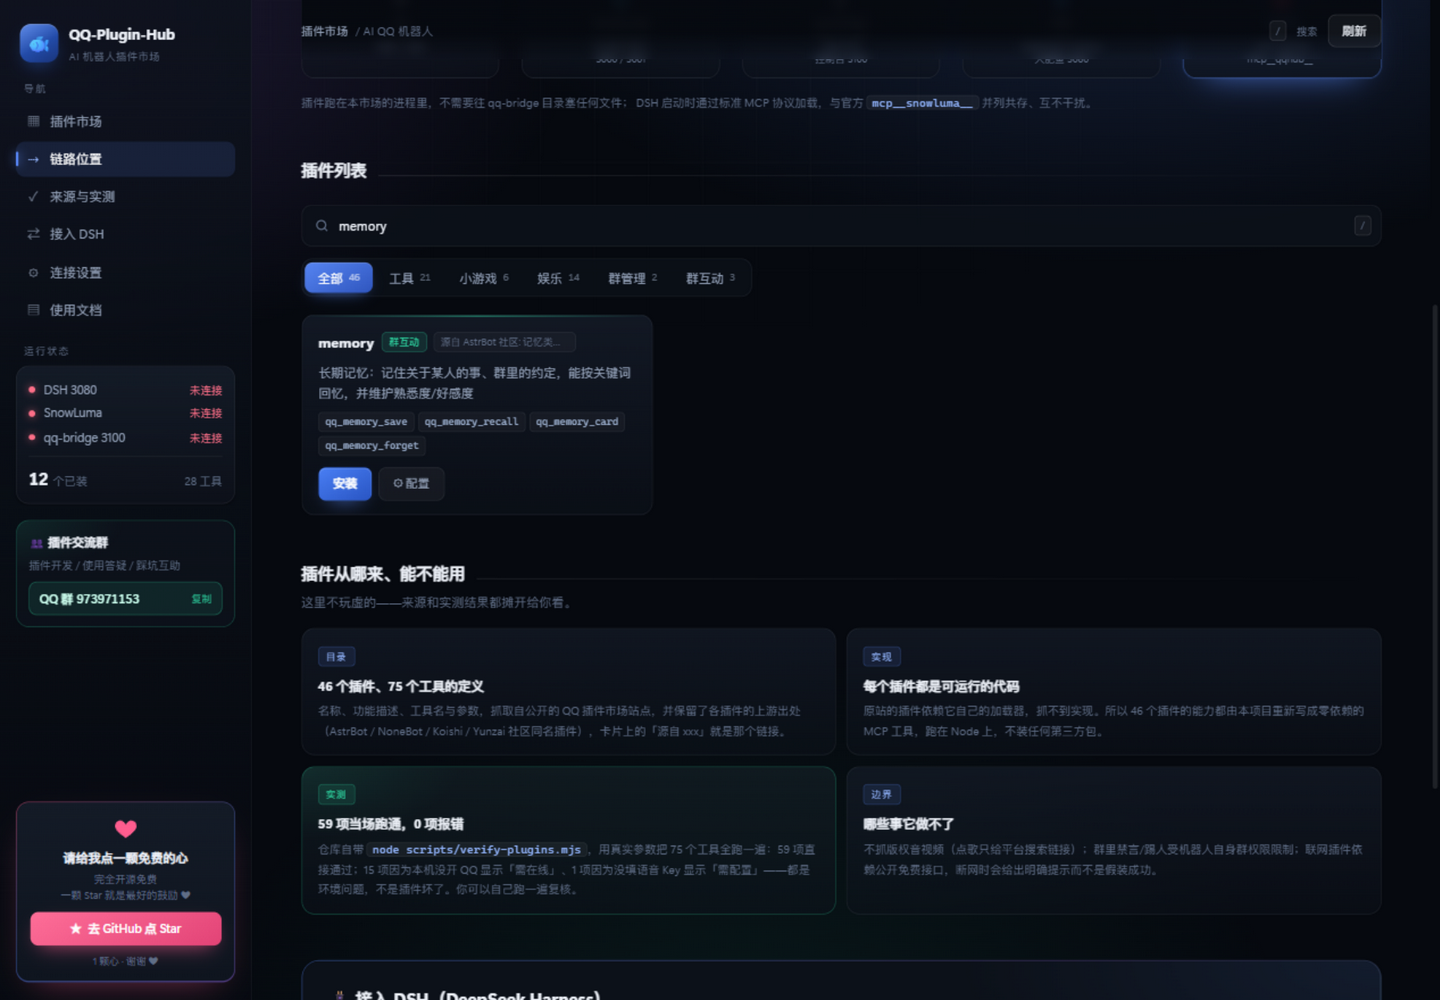
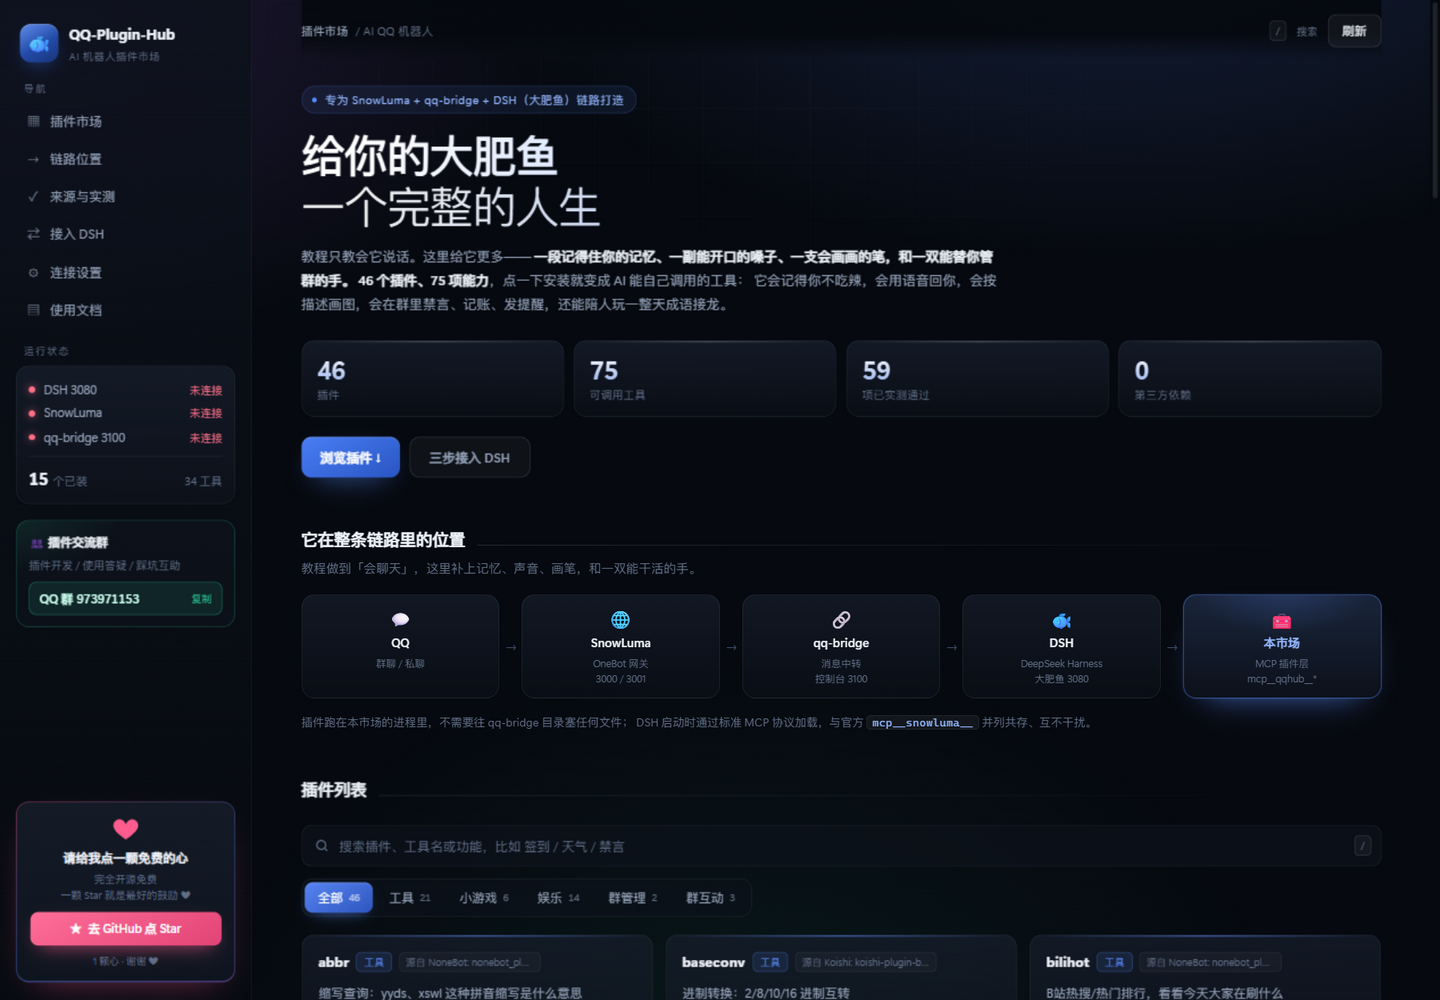
feat(ui): 主标题改为「给你的大肥鱼 / 一个完整的人生」
- 标题与文案重写：从「装上一双手」升级为人生叙事，突出记忆 / 声音 / 画笔 / 管群四件事
- 链路区副标题同步
- 页脚增加说明：「大肥鱼」指 Gitee 开源项目 luo_sang/qqbot，本项目为其生态第三方补充、非官方
- README 开头同步改写，并在「与大肥鱼的关系」一节补充无隶属关系、未使用其代码素材的说明

diff --git a/public/index.html b/public/index.html
@@ -654,11 +654,12 @@
 
       <section class="hero">
         <div class="eyebrow"><span class="pulse"></span>专为 SnowLuma + qq-bridge + DSH（大肥鱼）链路打造</div>
-        <h1><span>给你的 AI 机器人</span><span class="thin">装上一双手</span></h1>
+        <h1><span>给你的大肥鱼</span><span class="thin">一个完整的人生</span></h1>
         <p class="lede">
-          按教程把 DeepSeek 接进 QQ 之后，机器人很聪明——但它只会说话，不能替你办事。
-          这个市场就是它的工具箱：<strong>46 个插件、75 项能力</strong>，点一下安装，
-          就变成 AI 能自己调用的工具——查天气、管群、记账、开游戏、发提醒，还能记住你说过的话、用语音回你、按描述画画。
+          教程只教会它说话。这里给它更多——
+          <strong>一段记得住你的记忆、一副能开口的嗓子、一支会画画的笔，和一双能替你管群的手。</strong>
+          <strong>46 个插件、75 项能力</strong>，点一下安装就变成 AI 能自己调用的工具：
+          它会记得你不吃辣，会用语音回你，会按描述画图，会在群里禁言、记账、发提醒，还能陪人玩一整天成语接龙。
         </p>
         <div class="stats">
           <div class="stat-box"><b data-count="46">0</b><span>插件</span></div>
@@ -674,7 +675,7 @@
 
       <section class="sec reveal" id="stack">
         <div class="sec-head"><h2>它在整条链路里的位置</h2><span class="ln"></span></div>
-        <p class="sec-sub">别人的教程只装到「会聊天」，这个市场补上最后一段：让 AI 真的能动手。</p>
+        <p class="sec-sub">教程做到「会聊天」，这里补上记忆、声音、画笔，和一双能干活的手。</p>
         <div class="pipe">
           <div class="node"><i>💬</i><b>QQ</b><span>群聊 / 私聊</span></div>
           <div class="arw">→</div>
@@ -762,6 +763,8 @@
         <span>MIT License</span>
         <span class="dotsep">·</span>
         <span>界面与图标均为原创，不含第三方素材</span>
+        <span class="dotsep">·</span>
+        <span>「大肥鱼」指 Gitee 开源项目 luo_sang/qqbot，本项目为其生态的第三方插件补充，非官方</span>
       </footer>
     </div>
   </main>

diff --git a/README.md b/README.md
@@ -1,19 +1,22 @@
 # 🐟 QQ-Plugin-Hub — AI QQ 机器人插件市场
 
-> **给「SnowLuma + qq-bridge + DSH（大肥鱼）」这条链路补上最后一段：让 AI 真的能动手。**
+> **给你的大肥鱼一个完整的人生。**
+> 给「SnowLuma + qq-bridge + DSH（大肥鱼）」这条链路补上记忆、声音、画笔，和一双能干活的手。
 
 按抖音上很火的那套教程把 DeepSeek 接进 QQ 之后，你会发现一个问题——
-**机器人很聪明，但它只会说话。** 你让它"禁言这个人十分钟"，它只能回你一句解释。
+**它会说话，但没有生活。** 你让它"禁言这个人十分钟"，它只能回你一句解释；
+你跟它聊三天，它转头就忘了你是谁。
 
-这个市场就是它的工具箱：**46 个插件 / 75 项能力**，网页上点一下安装，
-就变成 AI 能自己调用的工具（`mcp__qqhub__*`）。从此群里的天气、签到、记账、
-成语接龙、禁言踢人，它都能真的替你做。
+这个市场就是它的人生补丁：**46 个插件 / 75 项能力**，网页上点一下安装，
+就变成 AI 能自己调用的工具（`mcp__qqhub__*`）。从此它**记得住你**（长期记忆）、
+**开得了口**（语音合成）、**画得了画**（文生图）、**管得了群**（禁言/踢人/公告），
+还会查天气、记账、发提醒、陪人玩成语接龙。
 
 ```
 QQ  ⇄  SnowLuma  ⇄  qq-bridge  ⇄  DSH（大肥鱼）  ⇄  DeepSeek
                                         │
                                         └── ⇄  QQ-Plugin-Hub（MCP 插件层）
-                                                43 个插件 / 69 个工具
+                                                46 个插件 / 75 个工具
 ```
 
 零第三方依赖 · 一个命令启动 · 网页里配置 · MIT 开源
@@ -183,6 +186,9 @@ node scripts/verify-plugins.mjs --json   # 输出机器可读结果
 
 - 大肥鱼负责「像人一样聊天」：人格、语气、记忆、心情、语音、表情包
 - 本市场负责「替人办事」：查数据、管群、记账、玩游戏、定时提醒
+
+本项目与该开源项目**没有隶属关系**，未使用其代码、素材或预设，只作为它生态里的第三方插件补充；
+「大肥鱼」在这里是对该机器人项目的指称。
 
 如果你的 DSH 用的就是大肥鱼那套人格预设，本市场挂在同一台机器上即可，
 DSH 会同时加载人格和这些工具——它既能用大肥鱼的口吻说话，又能真的动手做事。
